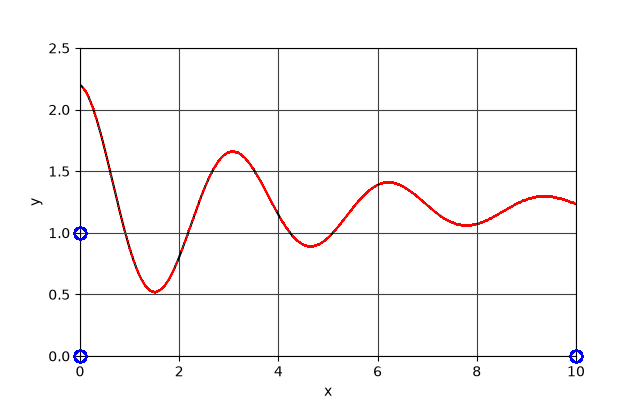
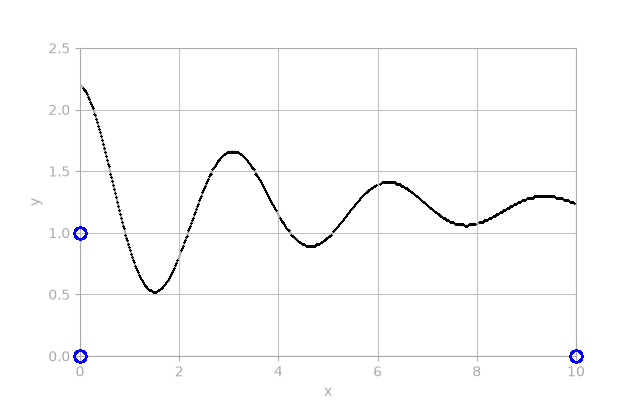
Trace several series from the command line (#5)
-n N traces the N most common curve colours and prints them as -c
options, like the -l options printed after clicking, so a batch of
similar plots can reuse them: which curve is longest, and so comes
first, can change from plot to plot. -c RRGGBB traces the curve
nearest to a given colour, with or without a #, and can be repeated.
With more than one curve, the CSV gains a series column that numbers
them in that order; a single curve still gives x,y.

The preview now draws each curve in its own colour over a faded copy
of the plot, so crossing curves can be checked, and the example
previews are redrawn. examples/series.png adds four crossing curves,
three coloured and one black, for the tests.

diff --git a/src/figrecover/cli.py b/src/figrecover/cli.py
@@ -2,9 +2,11 @@
 
 import argparse
 import os
+import re
 import sys
 from collections.abc import Sequence
 from pathlib import Path
+from typing import TextIO
 
 import cv2
 import numpy as np
@@ -12,7 +14,14 @@ import numpy.typing as npt
 
 from . import __version__, interactive
 from .calibration import MIN_POINTS, Calibration, Point
-from .digitize import Image, load_image, remove_grid, trace_curve
+from .digitize import (
+    Colour,
+    Image,
+    find_colours,
+    load_image,
+    remove_grid,
+    trace_curves,
+)
 
 
 def main(argv: Sequence[str] | None = None) -> int:
@@ -44,8 +53,8 @@ def _build_parser() -> argparse.ArgumentParser:
     """Create the command-line argument parser."""
     parser = argparse.ArgumentParser(
         prog="figrecover",
-        description="Recover the curve in an image of a plot as CSV, with "
-        "columns x and y.",
+        description="Recover the curves in an image of a plot as CSV, with "
+        "columns x and y, and a series column if there are several curves.",
     )
     parser.add_argument("--version", action="version", version=__version__)
     parser.add_argument("image", type=Path, help="image of the plot")
@@ -72,6 +81,26 @@ def _build_parser() -> argparse.ArgumentParser:
         "from the bottom-left corner (default: click on them, then reuse the "
         "printed -l options)",
     )
+    curves = parser.add_mutually_exclusive_group()
+    curves.add_argument(
+        "-n",
+        "--series",
+        type=_count,
+        metavar="N",
+        help="trace the N most common curve colours, then reuse the printed -c "
+        "options (default: 1)",
+    )
+    curves.add_argument(
+        "-c",
+        "--colour",
+        dest="colours",
+        action="append",
+        default=[],
+        type=_colour,
+        metavar="RRGGBB",
+        help="hexadecimal colour of a curve to trace, such as 1f77b4; repeat for "
+        "several curves",
+    )
     parser.add_argument(
         "-o",
         "--output",
@@ -83,7 +112,8 @@ def _build_parser() -> argparse.ArgumentParser:
         "--preview",
         type=Path,
         metavar="IMAGE",
-        help="also save the image with the recovered curve drawn in red",
+        help="also save a faded copy of the image with each recovered curve "
+        "drawn in its colour",
     )
     parser.add_argument(
         "--remove-grid", action="store_true", help="paint over grid lines first"
@@ -92,23 +122,19 @@ def _build_parser() -> argparse.ArgumentParser:
 
 
 def _digitize(arguments: argparse.Namespace) -> None:
-    """Write the curve in the image as CSV."""
+    """Write the curves in the image as CSV."""
     image = load_image(arguments.image)
     pixels = arguments.locations or _click_locations(image, arguments.points)
     calibration = Calibration.from_points(arguments.points, pixels)
     traced = remove_grid(image) if arguments.remove_grid else image
-    curve = trace_curve(traced, calibration.origin)
+    colours = arguments.colours or _find_colours(
+        traced, arguments.series, calibration.origin
+    )
+    curves = trace_curves(traced, colours, calibration.origin)
 
     if arguments.preview:
-        _save_preview(arguments.preview, image, curve, pixels)
-    np.savetxt(
-        arguments.output or sys.stdout,
-        calibration.to_data(curve),
-        fmt="%.6g",
-        delimiter=",",
-        header="x,y",
-        comments="",
-    )
+        _save_preview(arguments.preview, image, curves, colours, pixels)
+    _write_csv(arguments.output or sys.stdout, [calibration.to_data(c) for c in curves])
 
 
 def _click_locations(image: Image, points: Sequence[Point]) -> list[Point]:
@@ -119,18 +145,48 @@ def _click_locations(image: Image, points: Sequence[Point]) -> list[Point]:
     return pixels
 
 
+def _find_colours(image: Image, count: int | None, origin: Point) -> list[Colour]:
+    """Find the curve colours, and print the -c options to reuse if -n was given."""
+    colours = find_colours(image, count or 1, origin)
+    if count is not None:
+        options = " ".join(f"-c {bytes(colour).hex()}" for colour in colours)
+        print(f"figrecover: colours: {options}", file=sys.stderr)
+    return colours
+
+
+def _write_csv(file: Path | TextIO, curves: Sequence[npt.NDArray[np.float64]]) -> None:
+    """Write the curves as CSV, with a series column if there are several."""
+    if len(curves) == 1:
+        table, header, fmt = curves[0], "x,y", ["%.6g"] * 2
+    else:
+        table = np.vstack(
+            [
+                np.column_stack((np.full(len(curve), series), curve))
+                for series, curve in enumerate(curves, start=1)
+            ]
+        )
+        header, fmt = "series,x,y", ["%d", "%.6g", "%.6g"]
+    np.savetxt(file, table, fmt=fmt, delimiter=",", header=header, comments="")
+
+
 def _save_preview(
     path: Path,
     image: Image,
-    curve: npt.NDArray[np.float64],
+    curves: Sequence[npt.NDArray[np.float64]],
+    colours: Sequence[Colour],
     pixels: Sequence[Point],
 ) -> None:
-    """Save the image with the curve in red and the reference points in blue."""
+    """Save a faded copy of the image with the curves and reference points on it.
+
+    Each curve is drawn in its own colour, and the reference points in blue.
+    """
     height = image.shape[0]
     grey = cv2.cvtColor(image, cv2.COLOR_RGB2GRAY)
-    preview = cv2.cvtColor(grey, cv2.COLOR_GRAY2BGR)
-    for x, y in curve:
-        cv2.circle(preview, (round(x), round(height - y)), 1, (0, 0, 255), -1)
+    preview = cv2.cvtColor(255 - (255 - grey) // 3, cv2.COLOR_GRAY2BGR)
+    for curve, (red, green, blue) in zip(curves, colours, strict=True):
+        for x, y in curve:
+            centre = (round(x), round(height - y))
+            cv2.circle(preview, centre, 1, (blue, green, red), -1)
     for x, y in pixels:
         cv2.circle(preview, (round(x), round(height - y)), 6, (255, 0, 0), 2)
     if not cv2.imwrite(os.fspath(path), preview, [cv2.IMWRITE_PNG_COMPRESSION, 9]):
@@ -146,3 +202,25 @@ def _point(text: str) -> Point:
         msg = f"expected a point written as x,y, got {text!r}"
         raise argparse.ArgumentTypeError(msg) from None
     return x, y
+
+
+def _count(text: str) -> int:
+    """Parse a positive whole number."""
+    try:
+        count = int(text)
+    except ValueError:
+        count = 0
+    if count < 1:
+        msg = f"expected a positive whole number, got {text!r}"
+        raise argparse.ArgumentTypeError(msg)
+    return count
+
+
+def _colour(text: str) -> Colour:
+    """Parse a colour written in hexadecimal as ``RRGGBB``, with or without a ``#``."""
+    match = re.fullmatch(r"#?([0-9a-f]{6})", text.strip(), re.IGNORECASE)
+    if match is None:
+        msg = f"expected a colour written as RRGGBB, got {text!r}"
+        raise argparse.ArgumentTypeError(msg)
+    red, green, blue = bytes.fromhex(match[1])
+    return red, green, blue

diff --git a/tests/test_cli.py b/tests/test_cli.py
@@ -22,6 +22,7 @@ LOCATIONS = ["-l", "80,44", "-l", "576,44", "-l", "80,147"]
 GRID_LOCATIONS = ["-l", "80,44", "-l", "576,44", "-l", "80,167"]
 SPECTRUM = [str(EXAMPLES / "spectrum.png"), *POINTS]
 GRID = [str(EXAMPLES / "grid.png"), *POINTS]
+SERIES = [str(EXAMPLES / "series.png"), *POINTS, *LOCATIONS]
 
 
 def spectrum(x: npt.NDArray[np.float64]) -> npt.NDArray[np.float64]:
@@ -34,19 +35,51 @@ def damped(x: npt.NDArray[np.float64]) -> npt.NDArray[np.float64]:
     return 1.2 + np.exp(-x / 4) * np.cos(2 * x)
 
 
-def read_csv(text: str) -> npt.NDArray[np.float64]:
+def decay(x: npt.NDArray[np.float64]) -> npt.NDArray[np.float64]:
+    """Return the blue curve that examples/make_examples.py draws in series.png."""
+    return 2.5 * np.exp(-x / 3)
+
+
+def growth(x: npt.NDArray[np.float64]) -> npt.NDArray[np.float64]:
+    """Return the orange curve that examples/make_examples.py draws in series.png."""
+    return 2.5 * (1 - np.exp(-x / 3))
+
+
+def wave(x: npt.NDArray[np.float64]) -> npt.NDArray[np.float64]:
+    """Return the green curve that examples/make_examples.py draws in series.png."""
+    return 1.25 + np.sin(x) / 2
+
+
+def trend(x: npt.NDArray[np.float64]) -> npt.NDArray[np.float64]:
+    """Return the black line that examples/make_examples.py draws in series.png."""
+    return 0.4 + 0.2 * x
+
+
+def read_csv(text: str, header: str = "x,y") -> npt.NDArray[np.float64]:
     """Parse CSV output, checking its header."""
-    header, _, body = text.partition("\n")
-    assert header == "x,y"
+    first, _, body = text.partition("\n")
+    assert first == header
     return np.loadtxt(body.splitlines(), delimiter=",", ndmin=2)
 
 
-def assert_recovers(text: str, curve: Curve) -> None:
-    """Check that CSV output follows the true curve across the whole x-axis."""
-    data = read_csv(text)
+def assert_follows(data: npt.NDArray[np.float64], curve: Curve) -> None:
+    """Check that x and y columns follow the true curve across the whole x-axis."""
     assert data[:, 0].min() < 0.1
     assert data[:, 0].max() > 9.9
     np.testing.assert_allclose(data[:, 1], curve(data[:, 0]), atol=0.04)
+
+
+def assert_recovers(text: str, curve: Curve) -> None:
+    """Check that CSV output follows the true curve."""
+    assert_follows(read_csv(text), curve)
+
+
+def assert_recovers_series(text: str, curves: Sequence[Curve]) -> None:
+    """Check that each series in CSV output follows its true curve, in order."""
+    data = read_csv(text, header="series,x,y")
+    assert set(data[:, 0]) == set(range(1, len(curves) + 1))
+    for series, curve in enumerate(curves, start=1):
+        assert_follows(data[data[:, 0] == series, 1:], curve)
 
 
 def test_writes_csv_to_standard_output(capsys: pytest.CaptureFixture[str]) -> None:
@@ -72,6 +105,41 @@ def test_writes_csv_and_preview_files(
 def test_removes_grids(capsys: pytest.CaptureFixture[str]) -> None:
     assert main([*GRID, *GRID_LOCATIONS, "--remove-grid"]) == 0
     assert_recovers(capsys.readouterr().out, damped)
+
+
+def test_traces_several_series_and_prints_their_colours(
+    capsys: pytest.CaptureFixture[str],
+) -> None:
+    assert main([*SERIES, "-n", "4"]) == 0
+
+    captured = capsys.readouterr()
+    colours = "-c 2ea12e -c ff7f0e -c 1f77b4 -c 040404"  # the longest first
+    assert captured.err == f"figrecover: colours: {colours}\n"
+    assert_recovers_series(captured.out, [wave, growth, decay, trend])
+
+
+def test_traces_the_given_colours(
+    tmp_path: Path, capsys: pytest.CaptureFixture[str]
+) -> None:
+    preview = tmp_path / "preview.png"
+
+    arguments = [*SERIES, "-c", "1f77b4", "-c", "#FF7F0E", "--preview", str(preview)]
+    assert main(arguments) == 0
+
+    captured = capsys.readouterr()
+    assert captured.err == ""
+    assert_recovers_series(captured.out, [decay, growth])
+    image = cv2.imread(str(preview))
+    assert image is not None
+    for blue, green, red in [(180, 119, 31), (14, 127, 255)]:  # each curve's colour
+        assert np.any(np.all(image == (blue, green, red), axis=-1))
+
+
+def test_writes_one_series_without_a_series_column(
+    capsys: pytest.CaptureFixture[str],
+) -> None:
+    assert main([*SERIES, "-c", "2ca02c"]) == 0
+    assert_recovers(capsys.readouterr().out, wave)
 
 
 def test_handles_dark_images(
@@ -119,6 +187,8 @@ def test_can_be_cancelled(monkeypatch: pytest.MonkeyPatch) -> None:
         (["missing.png", *POINTS, *LOCATIONS], "cannot read image"),
         ([*SPECTRUM, "-l", "80,44"], "got 3 data points but 1 pixel locations"),
         ([*SPECTRUM, *LOCATIONS, "--preview", "no/such/dir.png"], "cannot write"),
+        ([*SERIES, "-n", "5"], "found only 4 of 5 curves"),
+        ([*SERIES, "-c", "00ffff"], "no curve of colour #00ffff found"),
     ],
 )
 def test_reports_errors(
@@ -144,6 +214,11 @@ def test_accepts_points_with_spaces_and_exponents(
         (["plot.png", "-p", "0"], "expected a point written as x,y, got '0'"),
         (["plot.png", "-p", "1,2,3"], "expected a point written as x,y"),
         (["plot.png", "-p", "a,b"], "expected a point written as x,y"),
+        ([*SERIES, "-n", "0"], "expected a positive whole number, got '0'"),
+        ([*SERIES, "-n", "two"], "expected a positive whole number"),
+        ([*SERIES, "-c", "red"], "expected a colour written as RRGGBB, got 'red'"),
+        ([*SERIES, "-c", "#12345"], "expected a colour written as RRGGBB"),
+        ([*SERIES, "-n", "2", "-c", "000000"], "not allowed with argument"),
         (["plot.png"], "required: -p/--point"),
         ([], "required: image"),
     ],

diff --git a/examples/make_examples.py b/examples/make_examples.py
@@ -30,11 +30,32 @@ def damped(x: npt.NDArray[np.float64]) -> npt.NDArray[np.float64]:
     return 1.2 + np.exp(-x / 4) * np.cos(2 * x)
 
 
-def draw(name: str, curve: Curve, ylim: float, *, grid: bool) -> None:
-    """Draw a curve over x from 0 to 10, and print the reference points."""
+def decay(x: npt.NDArray[np.float64]) -> npt.NDArray[np.float64]:
+    """Return an exponential decay."""
+    return 2.5 * np.exp(-x / 3)
+
+
+def growth(x: npt.NDArray[np.float64]) -> npt.NDArray[np.float64]:
+    """Return an exponential approach to a limit, crossing ``decay``."""
+    return 2.5 * (1 - np.exp(-x / 3))
+
+
+def wave(x: npt.NDArray[np.float64]) -> npt.NDArray[np.float64]:
+    """Return a sine wave that crosses ``decay`` and ``growth``."""
+    return 1.25 + np.sin(x) / 2
+
+
+def trend(x: npt.NDArray[np.float64]) -> npt.NDArray[np.float64]:
+    """Return a straight line that crosses the other series."""
+    return 0.4 + 0.2 * x
+
+
+def draw(name: str, curves: dict[str, Curve], ylim: float, *, grid: bool) -> None:
+    """Draw curves, keyed by colour, over x from 0 to 10, and print the points."""
     figure, axes = plt.subplots(figsize=(6.4, 4), dpi=100)
     x = np.linspace(0, 10, 2000)
-    axes.plot(x, curve(x), color="black", linewidth=1.5)
+    for colour, curve in curves.items():
+        axes.plot(x, curve(x), color=colour, linewidth=1.5)
     axes.set(xlim=(0, 10), ylim=(0, ylim), xlabel="x", ylabel="y")
     if grid:
         axes.grid(color="0.25", linewidth=0.8)
@@ -48,5 +69,7 @@ def draw(name: str, curve: Curve, ylim: float, *, grid: bool) -> None:
     plt.close(figure)
 
 
-draw("spectrum", spectrum, 3, grid=False)
-draw("grid", damped, 2.5, grid=True)
+draw("spectrum", {"black": spectrum}, 3, grid=False)
+draw("grid", {"black": damped}, 2.5, grid=True)
+series = {"tab:blue": decay, "tab:orange": growth, "tab:green": wave, "black": trend}
+draw("series", series, 3, grid=False)
